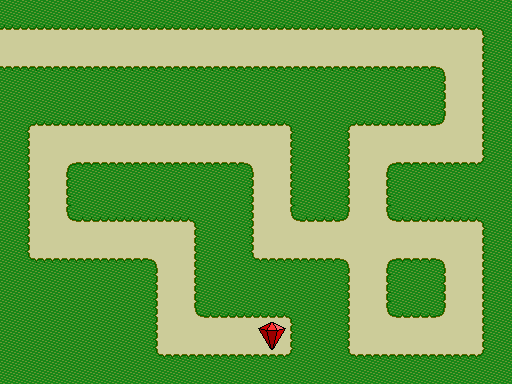
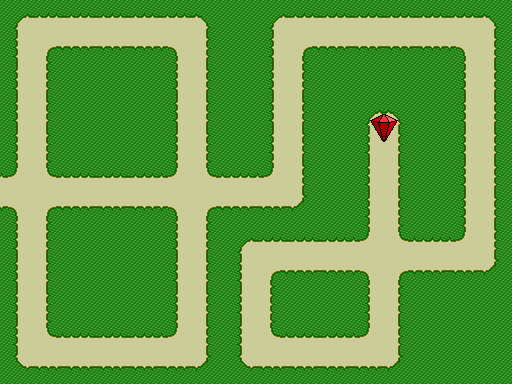
new tile format (allows for 1-tile wide walls) also, a new map to showcase this

diff --git a/Point.cpp b/Point.cpp
@@ -20,7 +20,7 @@ GridPoint Point::snap() const{
 }
 
 GridPoint DisplayPoint::snap() const{
-    return { this->x / TILE_WIDTH, this->y / TILE_HEIGHT };
+    return { (this->x + TILE_WIDTH/2) / TILE_WIDTH, (this->y + TILE_HEIGHT/2) / TILE_HEIGHT };
 }
 
 DisplayPoint Point::displayPoint() const{
@@ -32,9 +32,9 @@ Point DisplayPoint::point() const{
 }
 
 Point GridPoint::center() const{
-    return { (this->x + 0.5f) * TILE_WIDTH, (this->y + 0.5f) * TILE_WIDTH };
+    return { (float)this->x * TILE_WIDTH, (float)this->y * TILE_HEIGHT };
 }
 
 DisplayPoint GridPoint::upperLeft(){
-    return { this->x * TILE_WIDTH, this->y * TILE_WIDTH };
+    return { this->x * TILE_WIDTH - TILE_WIDTH/2, this->y * TILE_HEIGHT - TILE_HEIGHT/2};
 }

diff --git a/Map.cpp b/Map.cpp
@@ -52,8 +52,9 @@ void Map::draw() {
     sprite.draw();
     if (isFocused) {
         SDL_Rect rect;
-        rect.x = focusedTile.x * TILE_WIDTH;
-        rect.y = focusedTile.y * TILE_HEIGHT;
+        DisplayPoint corner = focusedTile.upperLeft();
+        rect.x = corner.x;
+        rect.y = corner.y;
         rect.w = TILE_WIDTH;
         rect.h = TILE_HEIGHT;
         SDL_RenderDrawRect(renderer, &rect);

diff --git a/main.cpp b/main.cpp
@@ -130,9 +130,9 @@ int main(int argc, char *argv[]) {
 
     map = Map("/assets/map1.tmx");
     
-    addBasicTower({0, 0});
-    addBasicTower({6, 7});
-    addBasicTower({5, 11});
+    addBasicTower({3, 5});
+    addBasicTower({8, 7});
+    addBasicTower({11, 9});
     
 
     gameLoop();
